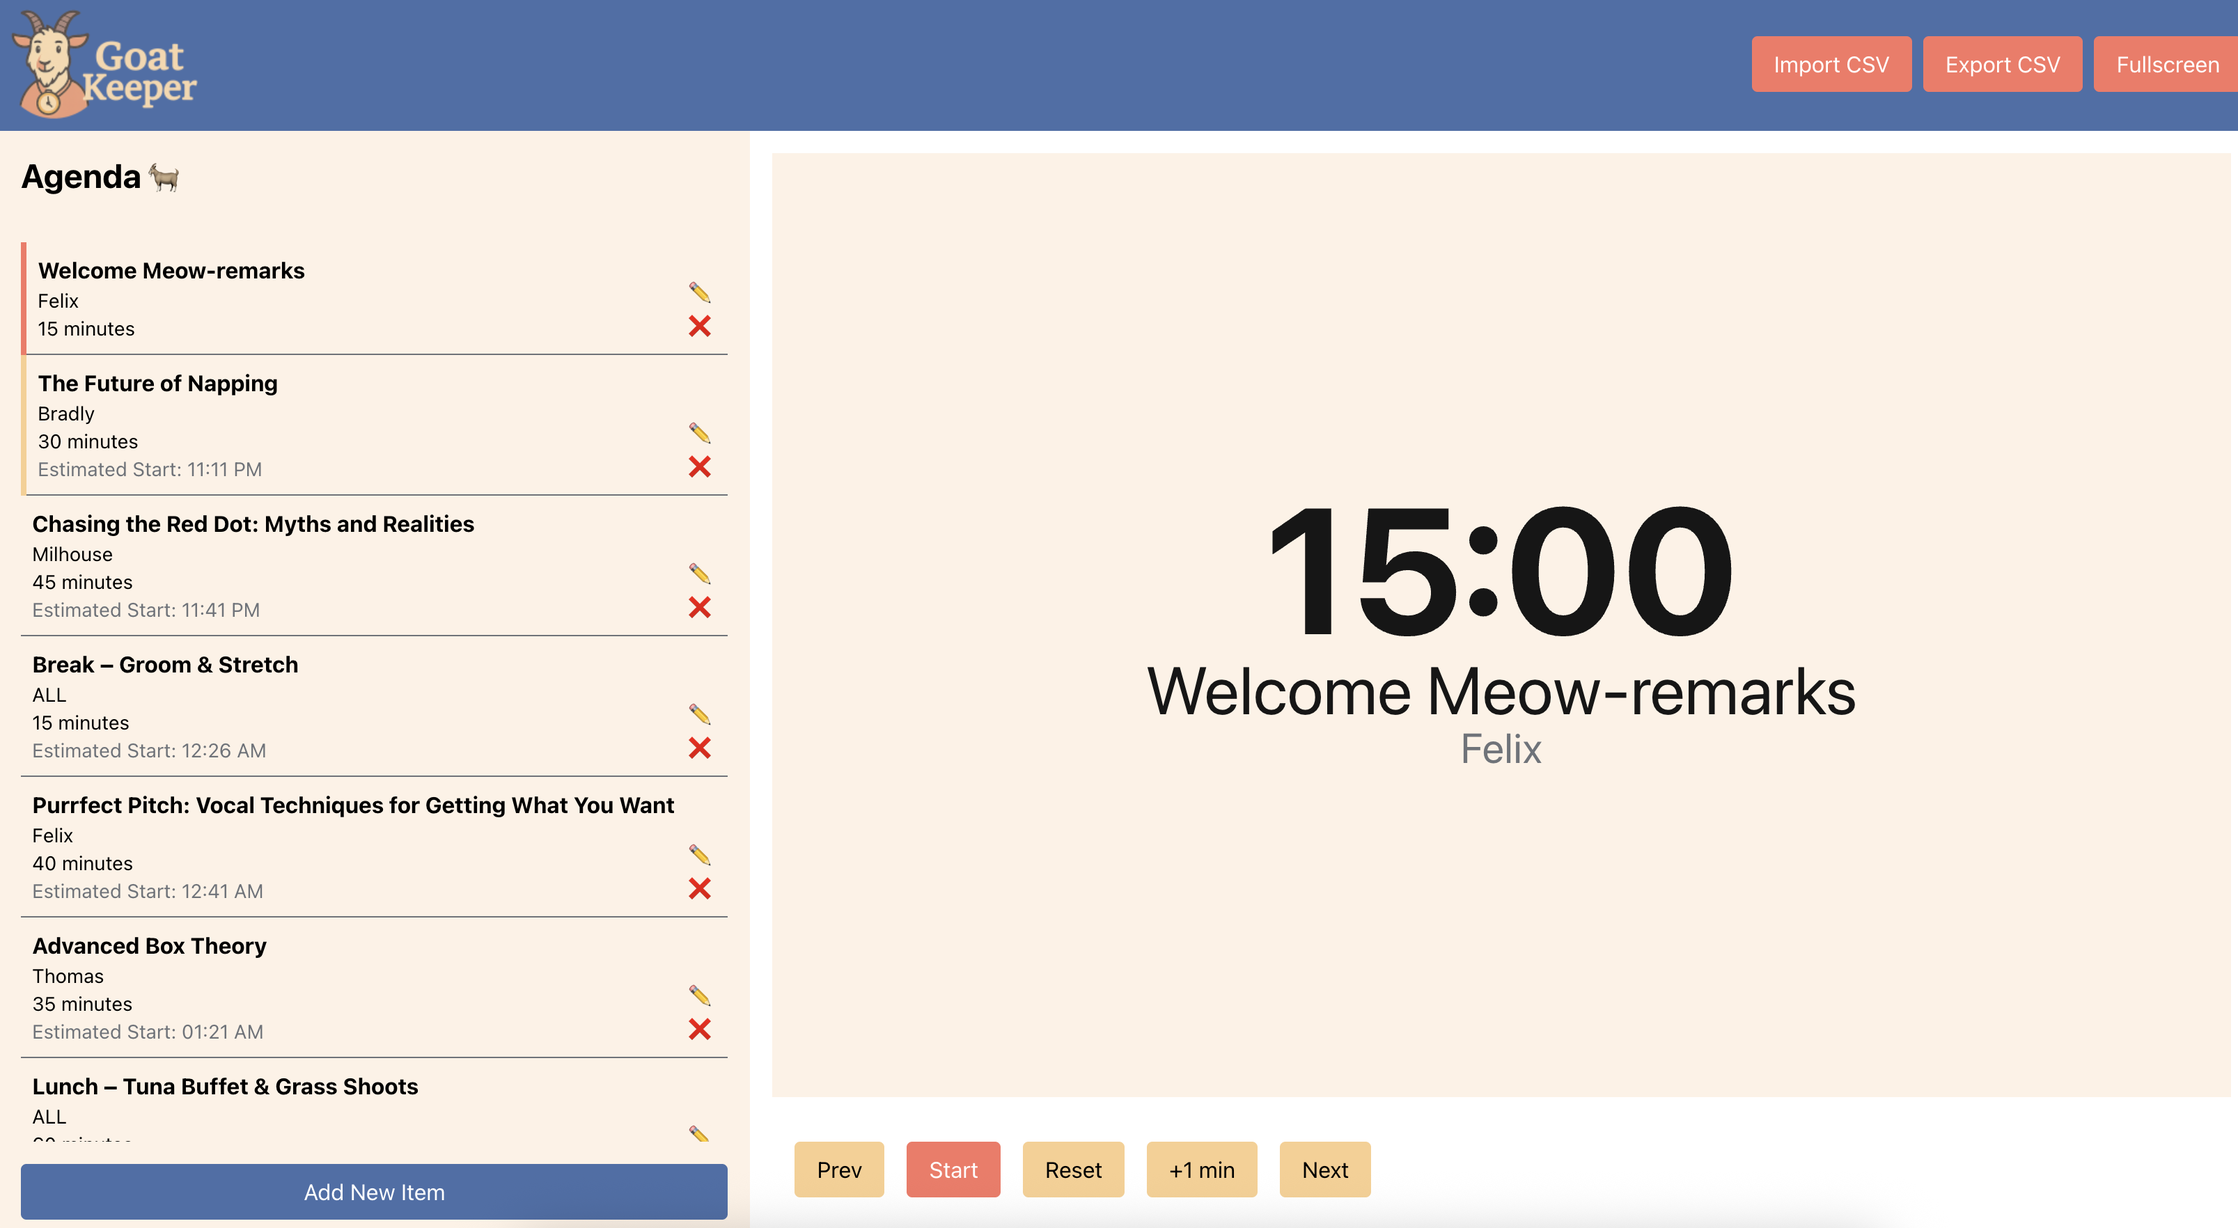
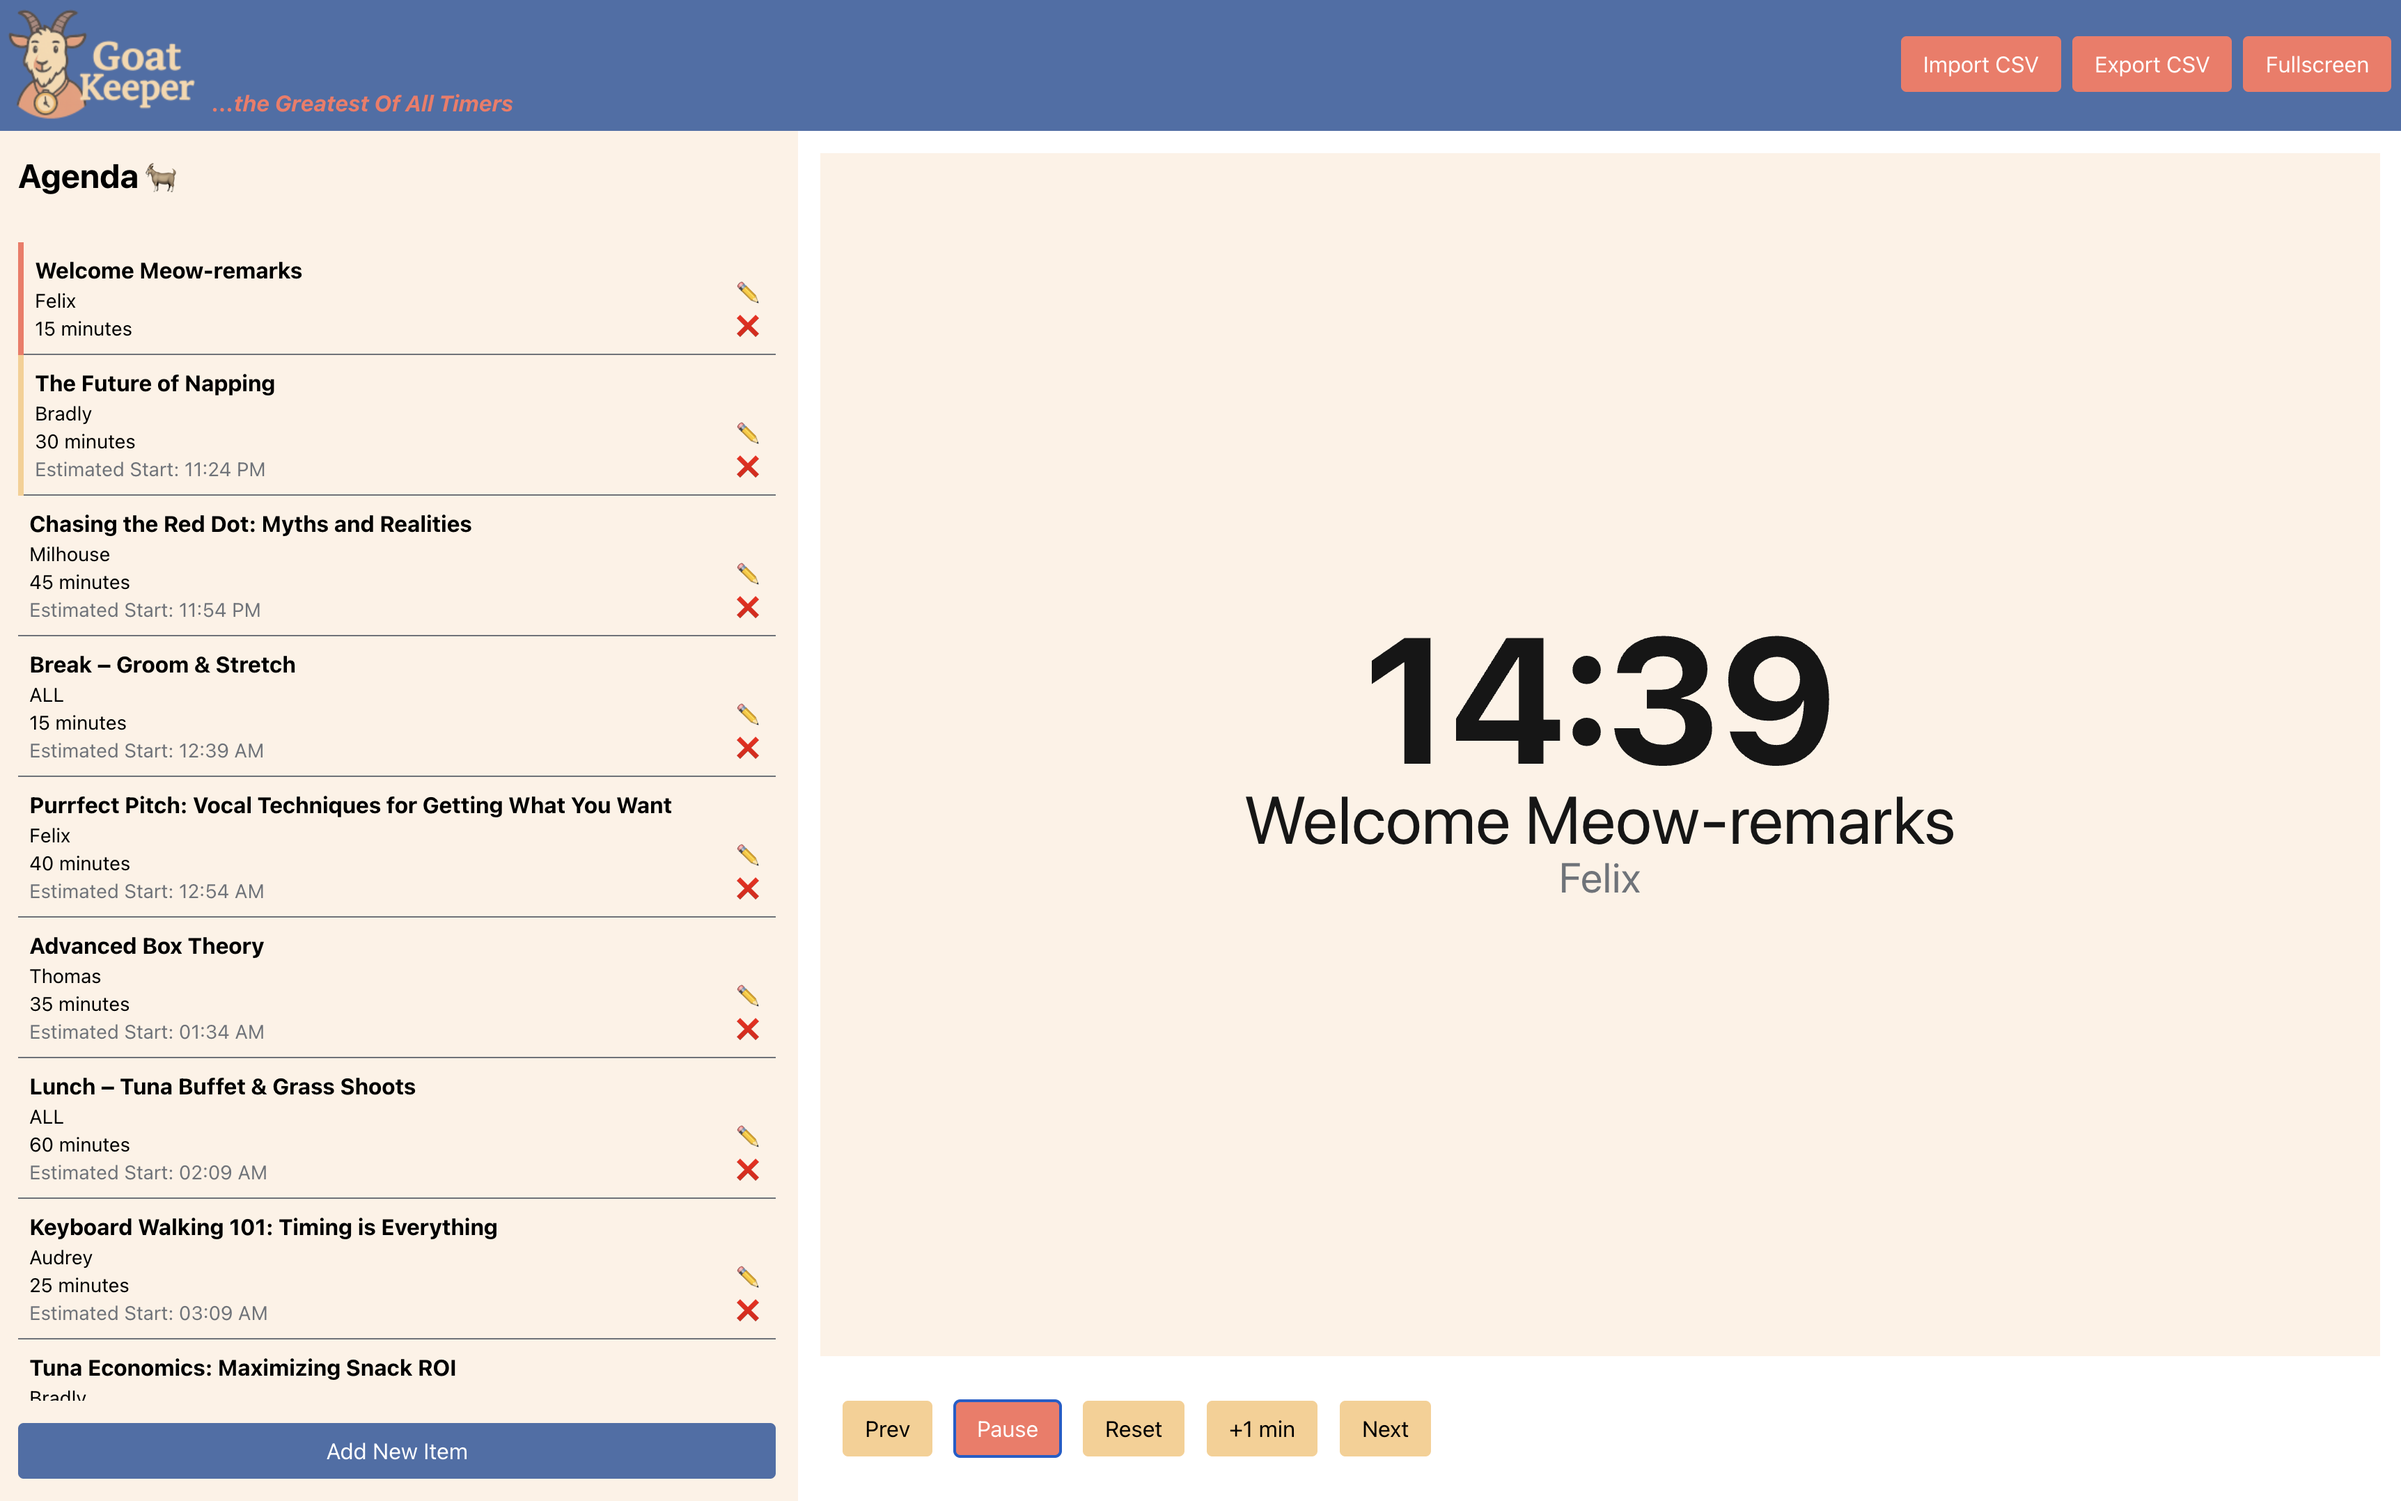
tagline update

diff --git a/src/components/Header.js b/src/components/Header.js
@@ -18,8 +18,9 @@ const Header = ({ setAgenda, agenda }) => {
 
   return (
     <header className="bg-primary text-white p-2 flex justify-between items-center">
-      <div className="flex items-center">
+      <div className="flex items-end">
         <img src="/GoatKeeper-Logo.png" alt="Logo" className="h-20 mr-0" />
+        <h1 className="text-l font-bold mb-0 pl-3 text-accent"><i>...the Greatest Of All Timers</i></h1>
       </div>
       <div>
         <label className="bg-accent px-4 py-2 rounded mr-2 cursor-pointer inline-block">

diff --git a/README.md b/README.md
@@ -1,6 +1,7 @@
 # 🐐 Goatkeeper 🐐
 
 ![GoatKeeper logo](public/GoatKeeper-Logo.png)
+"The Greatest Of All Timers!"
 
 **Goatkeeper** is a meeting facilitation tool that helps you stay on time, stay focused, and steer through packed agendas with grace. Designed for live onsite events and working sessions, it combines a real-time countdown timer with a clear visual agenda and flexible controls to adjust as things shift.
 
